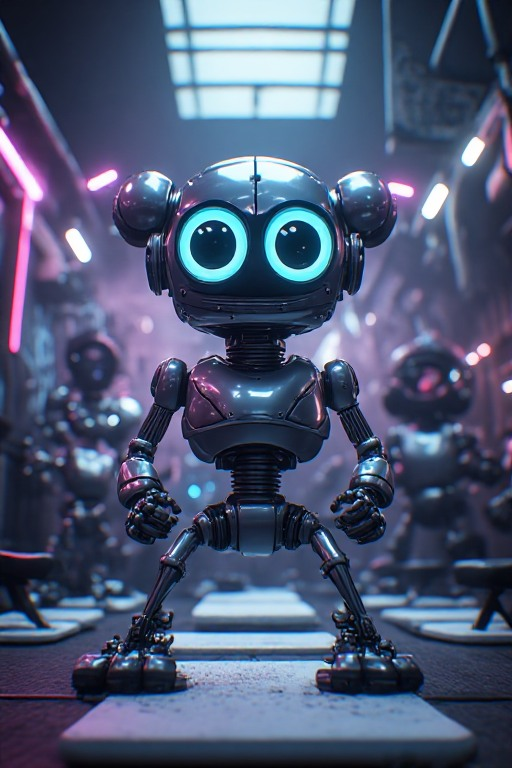
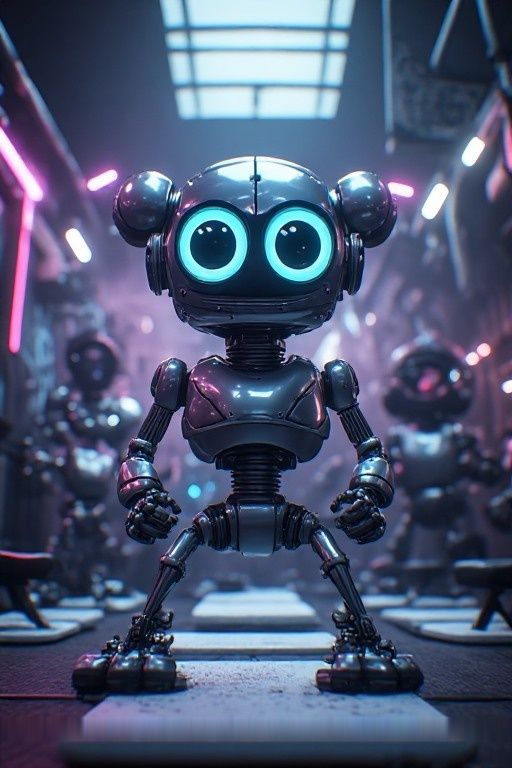
feat: icono JMB y limpieza de branding
- Creado icon-jmb.png (64x64) con iniciales JMB
- robot-icon.png y robot-icon.ico actualizados con el nuevo icono
- Creditos actualizados de JMbirner a JMB en la UI

Changed region(s): [[0.125, 0.9375, 0.9375, 0.9688]]

diff --git a/main.py b/main.py
@@ -397,7 +397,7 @@ class ChatbotApp:
         self.credit_frame = tk.Frame(self.right_panel, bg="#1a1a2e", height=30)
         self.credit_frame.pack(side=tk.BOTTOM, fill=tk.X)
         self.credit_frame.pack_propagate(False)
-        self.credit_label = tk.Label(self.credit_frame, text="⚡ JMbirner ⚡", font=("Helvetica", 9, "bold"), bg="#1a1a2e", fg="#FF6B35")
+        self.credit_label = tk.Label(self.credit_frame, text="⚡ JMB ⚡", font=("Helvetica", 9, "bold"), bg="#1a1a2e", fg="#FF6B35")
         self.credit_label.pack(expand=True)
 
         # === 9. APLICAR TEMA INICIAL ===